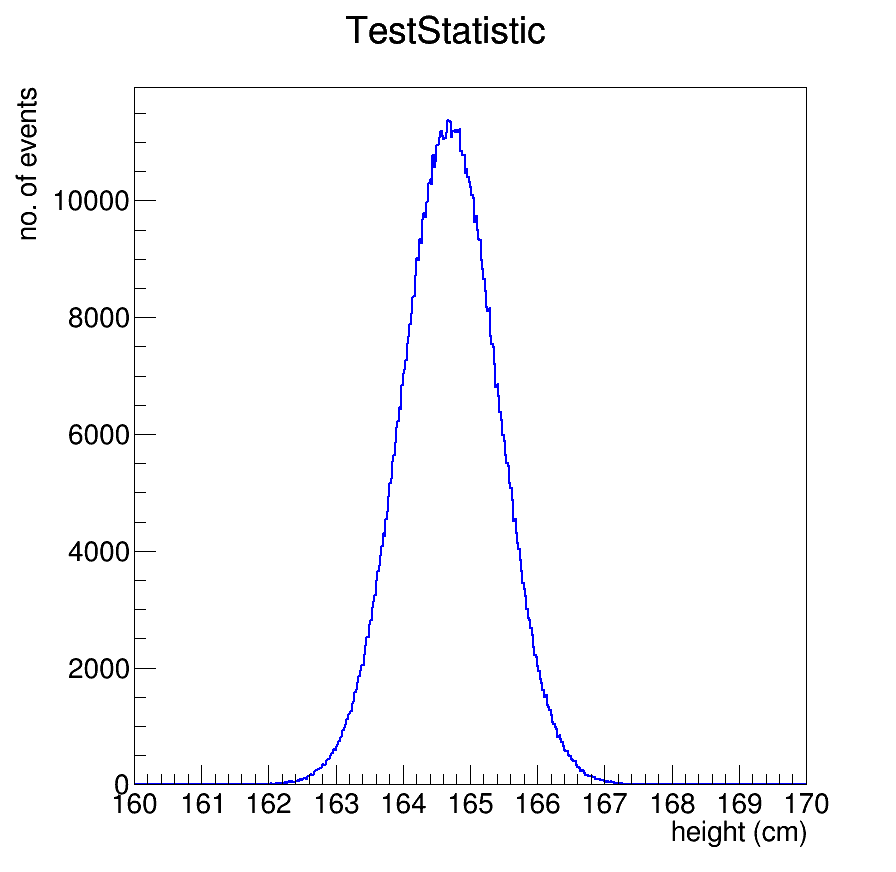
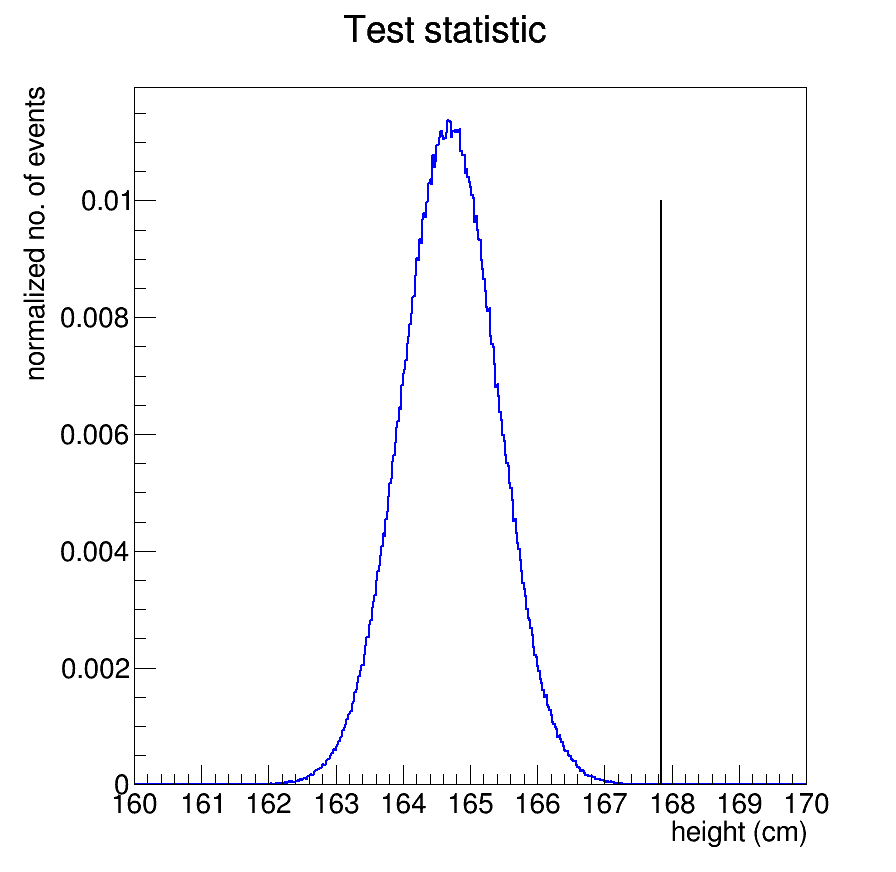
Vjezbe_13 task1 finished (fixed line)

diff --git a/Vjezbe_13/Analyzer.cpp b/Vjezbe_13/Analyzer.cpp
@@ -11,8 +11,10 @@
 
 using namespace std;
 
-void Analyzer::Simulation()
+void Analyzer::Loop()
 {
+	// simulation //
+	
 	TRandom1* rand = new TRandom1();
 	int N_measure = 100, N_experiment = 1000000;
 	double heightSum, testStatistic;
@@ -27,12 +29,10 @@ void Analyzer::Simulation()
 		testStatistic = heightSum/N_measure;
 		histoTestStatistic->Fill(testStatistic);
 	}
-}
-
-void Analyzer::Loop()
-{
-	double dataSum = 0.0, p, z;
 	
+	// data and test statistic //
+	
+	double dataSum = 0.0, dataAverage, p, z;
 	if (fChain == 0)
 		return;
 	Long64_t nentries = fChain->GetEntriesFast();
@@ -47,48 +47,47 @@ void Analyzer::Loop()
 		
 		histoHeight->Fill(height);
 		dataSum += height;
-   }
+	}
    
-   dataAverage = dataSum/nentries;
-   histoTestStatistic->Scale(1/histoTestStatistic->Integral());
-   
-   if(dataAverage > 164.7)
-   {
+	dataAverage = dataSum/nentries;
+	histoTestStatistic->Scale(1/histoTestStatistic->Integral());
+	
+	if(dataAverage > 164.7)
+	{
 		p = histoTestStatistic->Integral(histoTestStatistic->FindBin(dataAverage), 500);
 		z = TMath::Sqrt(2)*TMath::ErfcInverse(2*p);
 		cout << "p =" << p << endl;
 		cout << "z =" << z << endl;
-   }
-   else
-   {
+	}
+	else
+	{
 		p = histoTestStatistic->Integral(0, histoTestStatistic->FindBin(dataAverage));
 		z = TMath::Sqrt(2)*TMath::ErfcInverse(2*p);
 		cout << "p =" << p << endl;
 		cout << "z =" << z << endl;
-   }
-}
-
-void Analyzer::Plot()
-{
+	}
+   
+	// plot //
+	
 	TCanvas* c = new TCanvas("c", "c", 900, 900);
 	gPad->SetLeftMargin(0.15);
 	
+	histoTestStatistic->SetTitle("Test statistic");
 	histoTestStatistic->GetXaxis()->SetTitle("height (cm)");
-	histoTestStatistic->GetYaxis()->SetTitle("no. of events");
+	histoTestStatistic->GetYaxis()->SetTitle("normalized no. of events");
 	histoTestStatistic->SetStats(0);
 	histoTestStatistic->SetLineColor(kBlue);
 	histoTestStatistic->SetLineWidth(2);
-	histoTestStatistic->Draw("");
+	histoTestStatistic->Draw("histo");
 	
-	/*
-	TLine *line = new TLine(dataAverage,0,dataAverage,100000);
-	line->SetLineColor(kBlack);
-	line->SetLineWidth(3);
-    line->Draw("same");
-    */
+	TLine *line = new TLine(dataAverage, 0.0, dataAverage, 0.01);
+	line->SetLineWidth(2);
+   	line->Draw();
 	
 	c->SaveAs("TestStatistic.png");
 }
+
+
 
 
 

diff --git a/Vjezbe_13/Analyzer.h b/Vjezbe_13/Analyzer.h
@@ -25,8 +25,6 @@ public :
 
    // Declaration of leaf types
    Float_t         height;
-   
-   double dataAverage;
 
    // List of branches
    TBranch        *b_height;   //!
@@ -40,9 +38,6 @@ public :
    virtual void     Loop();
    virtual Bool_t   Notify();
    virtual void     Show(Long64_t entry = -1);
-   
-   virtual void Simulation();
-   virtual void Plot();
    
    TH1F* histoHeight = new TH1F("histoHeight", "b_height", 280, 130, 200);
    TH1F* histoTestStatistic = new TH1F("histoTestStatistic", "TestStatistic", 500, 160, 170);

diff --git a/Vjezbe_13/analyze.cpp b/Vjezbe_13/analyze.cpp
@@ -14,9 +14,6 @@ int main()
 	Analyzer* thing;
 	thing = new Analyzer();
 	
-	
-	thing->Simulation();
-	thing->Plot();
 	thing->Loop();
 	
 	delete thing;
